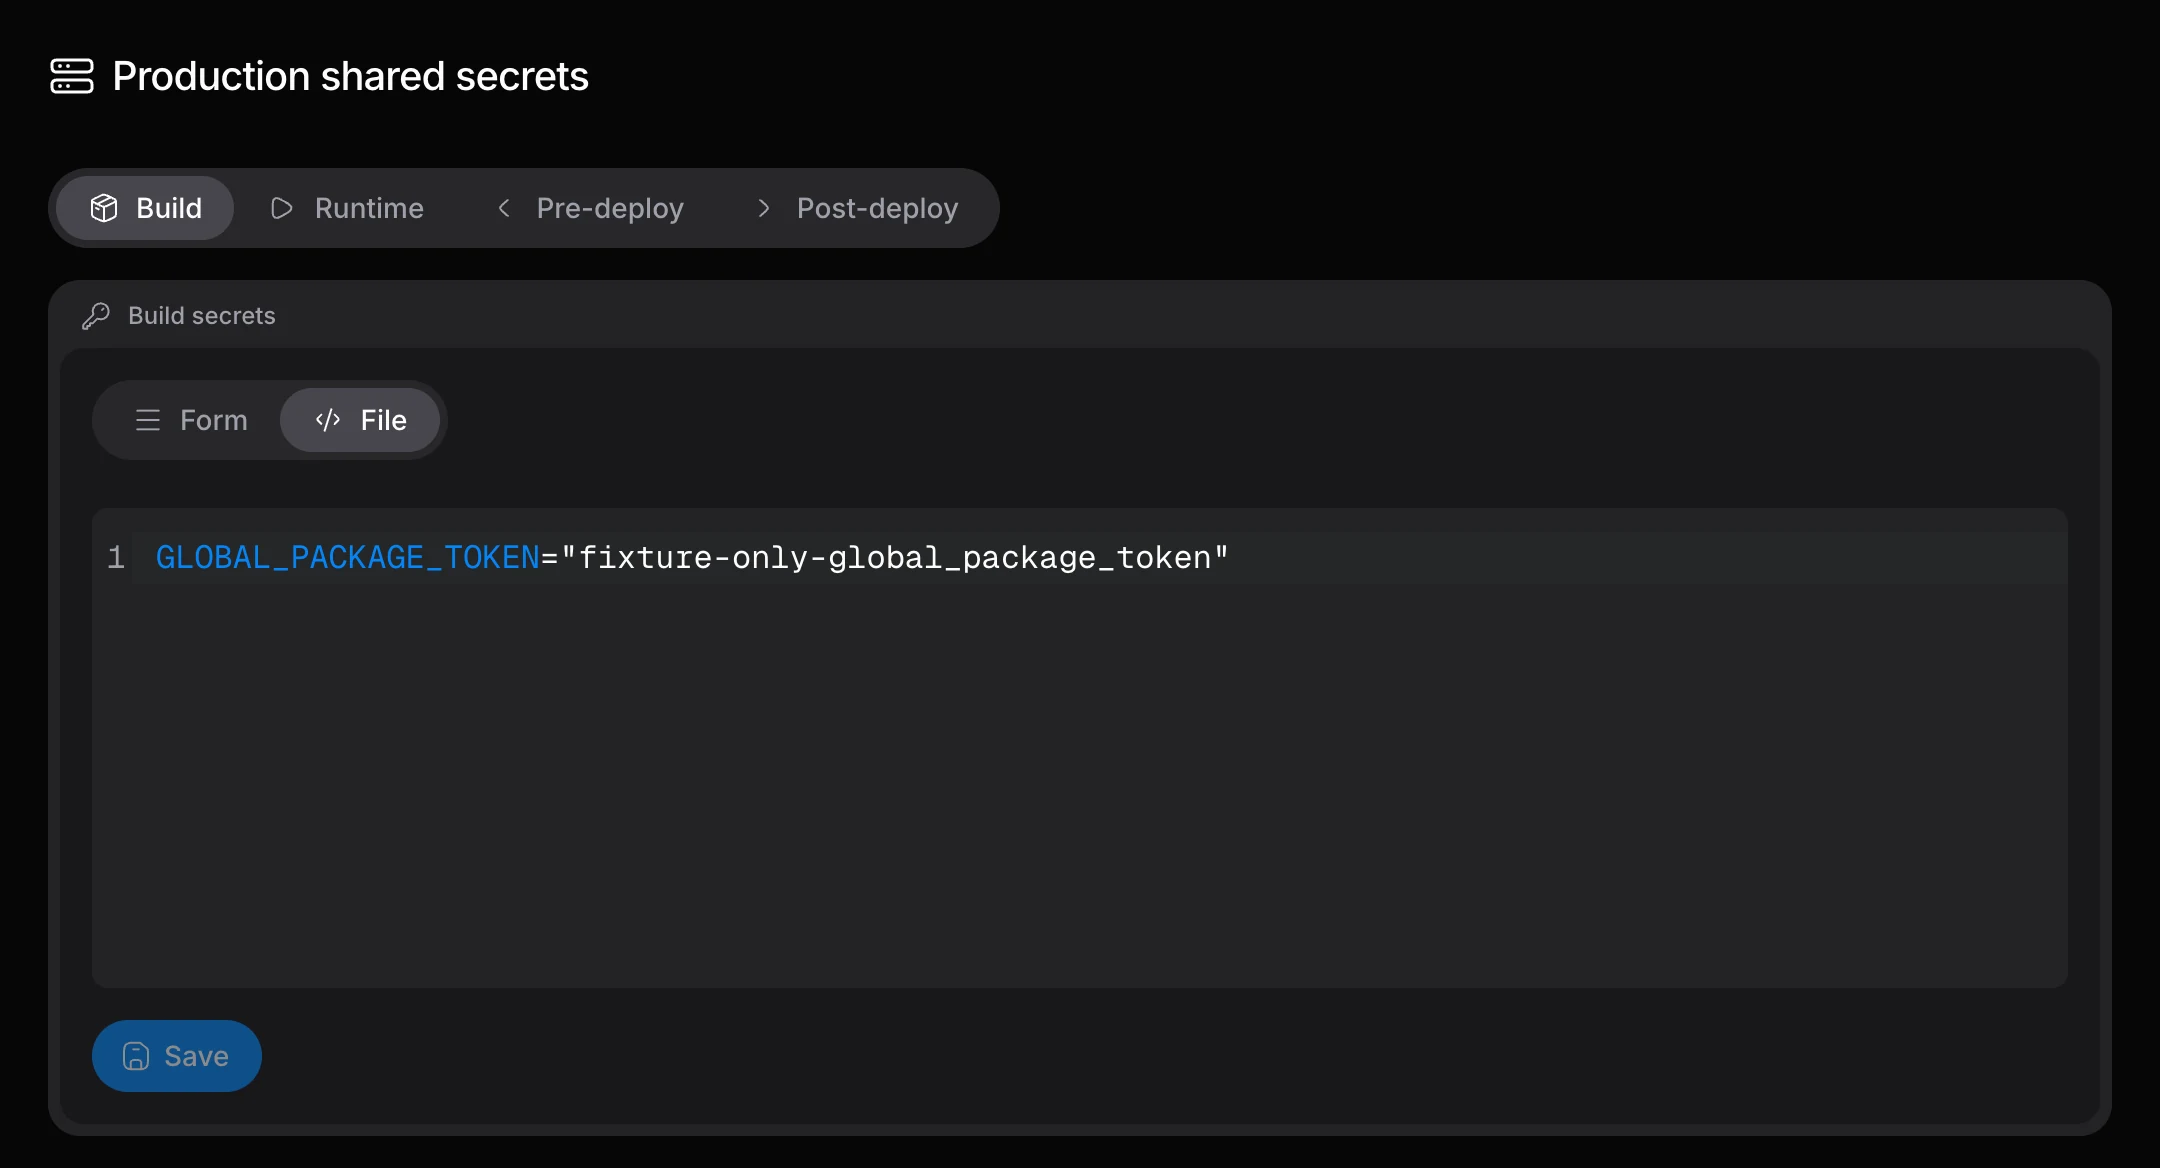
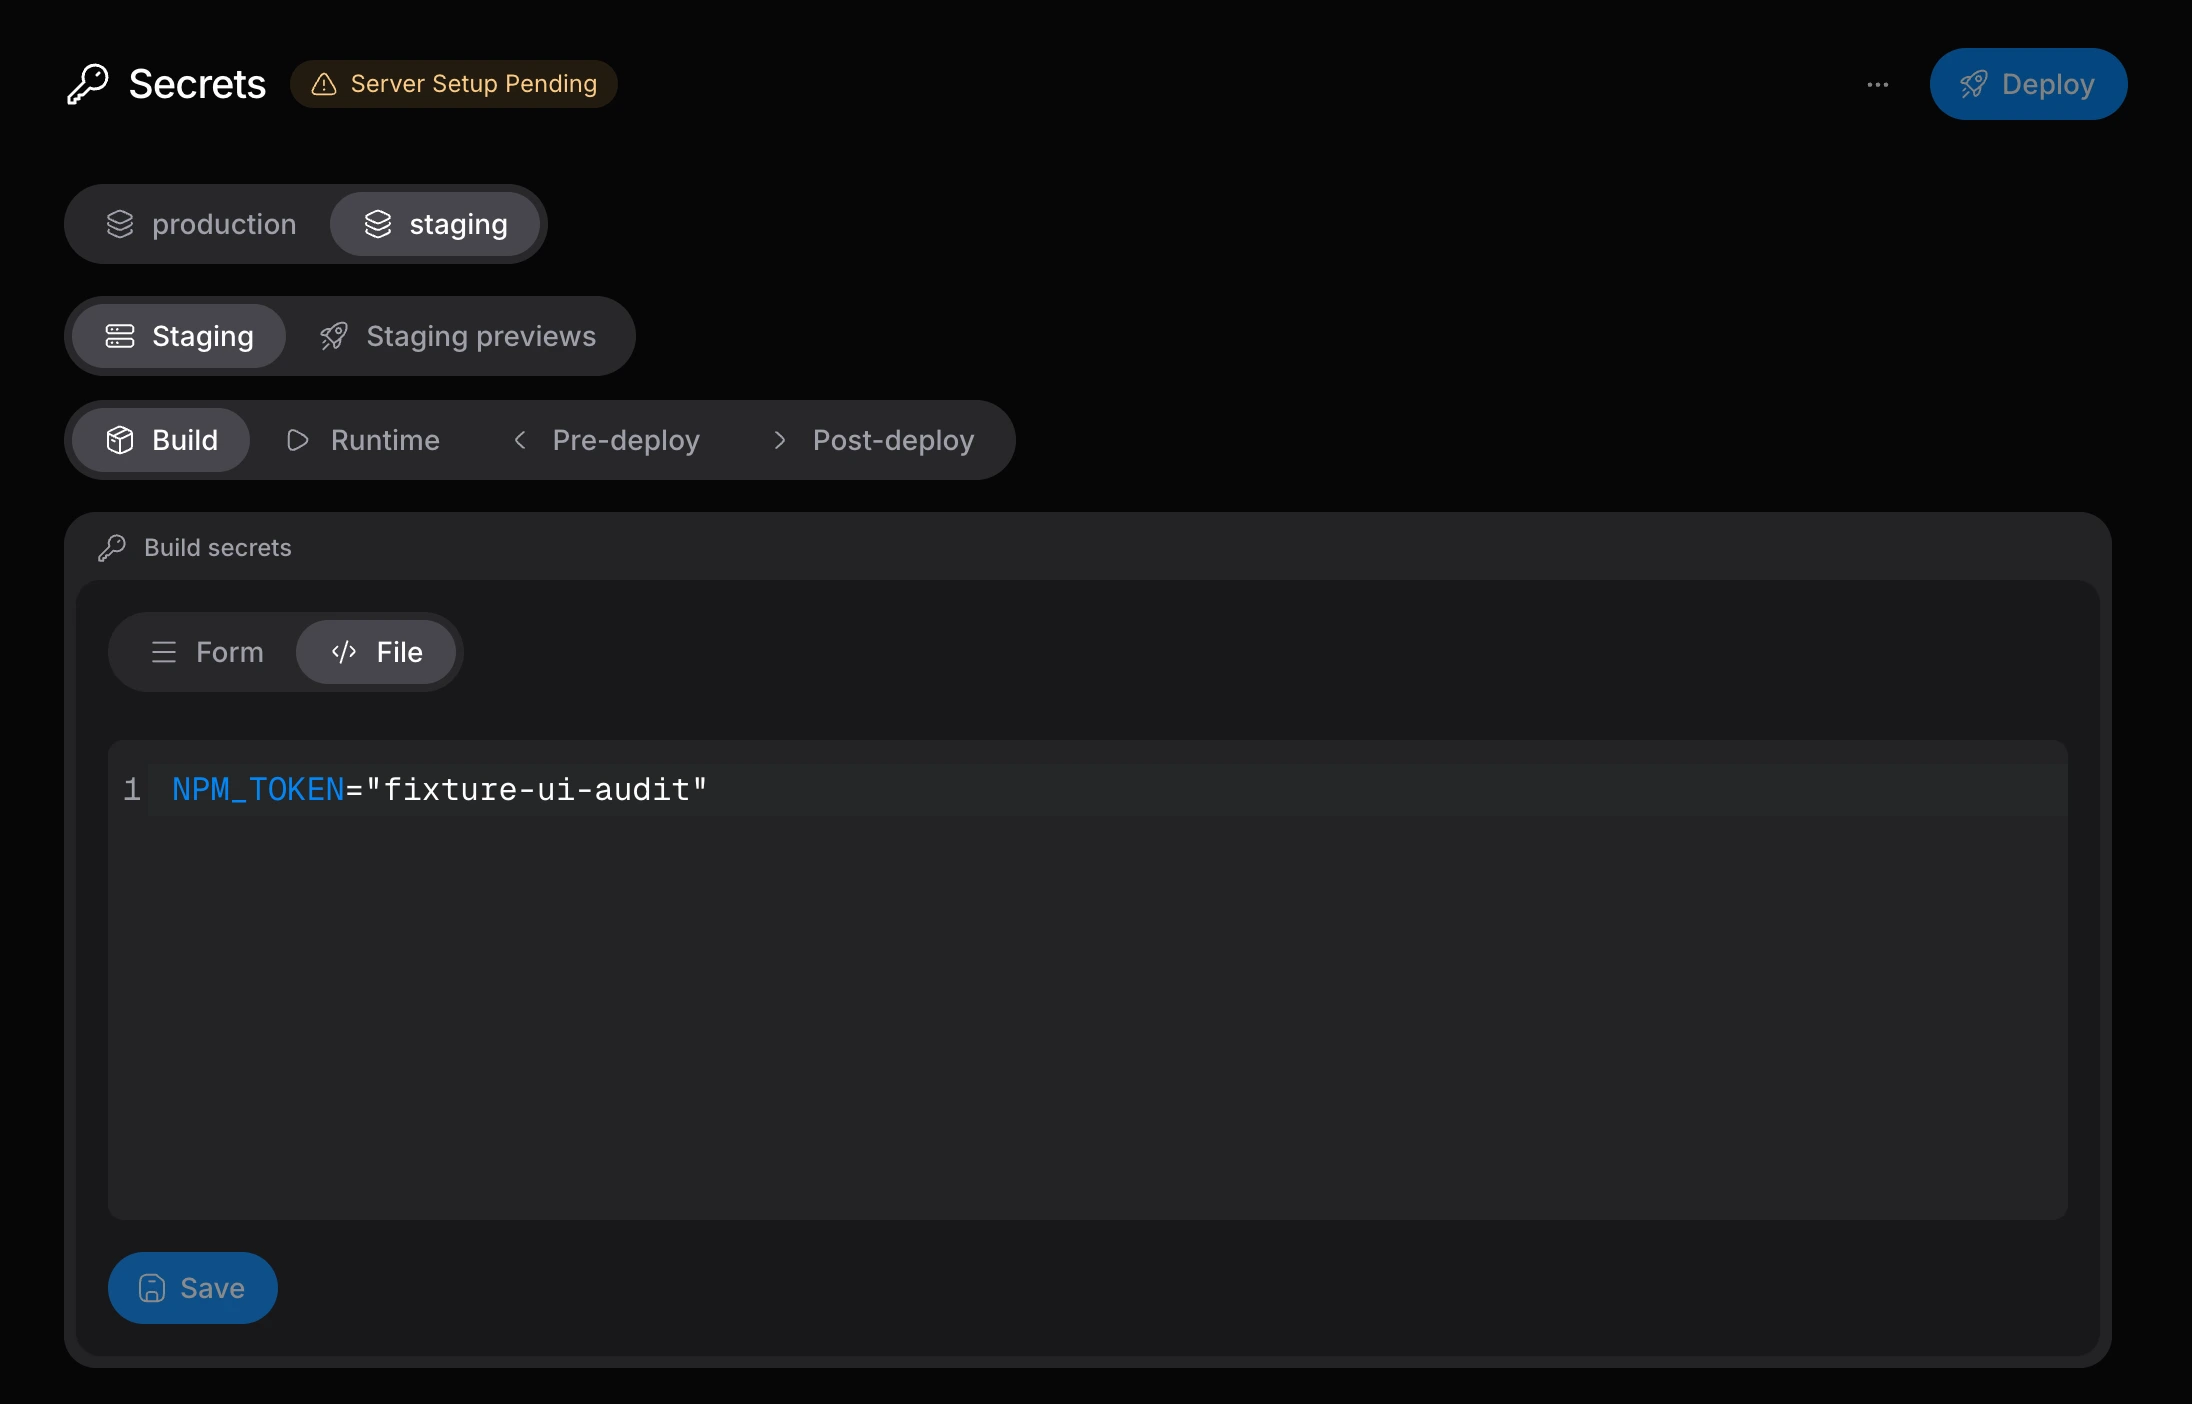
docs: refresh v2 secret screenshots and release fixes

diff --git a/docs/docs/secrets.md b/docs/docs/secrets.md
@@ -54,8 +54,8 @@ AUTH_HEADER="Bearer {{globals.API_TOKEN}}"
 Removing a line deletes that key when saved; `KEY=` saves an empty string. Unchanged values are preserved. Switching modes does not save: use **Save** to apply edits. References remain expressions in the editor and resolve only for execution.
 
 <div className="towbar-doc-screenshot">
-  <div className="towbar-product-light"><img src="/assets/guides/secrets-file-light.webp" alt="The .env File editor using synthetic example secret values." width="2160" height="1168" loading="lazy" /></div>
-  <div className="towbar-product-dark"><img src="/assets/guides/secrets-file-dark.webp" alt="The .env File editor using synthetic example secret values." width="2160" height="1168" loading="lazy" /></div>
+  <div className="towbar-product-light"><img src="/assets/guides/secrets-file-light.webp" alt="The staging Build secrets File editor with a YAML-declared key and a synthetic value." width="2192" height="1404" loading="lazy" /></div>
+  <div className="towbar-product-dark"><img src="/assets/guides/secrets-file-dark.webp" alt="The staging Build secrets File editor with a YAML-declared key and a synthetic value." width="2192" height="1404" loading="lazy" /></div>
 </div>
 
 ## Save and deploy

diff --git a/docs/plans/manifest-v2.md b/docs/plans/manifest-v2.md
@@ -567,3 +567,13 @@ secret rows now stack key/value below the small breakpoint while retaining the
 desktop columns. The rendered value field uses the full mobile card width after
 the fix. Web lint/typecheck and diff whitespace checks pass. This is local
 fixture/browser evidence; no hosted state was changed.
+
+### Final implementation verification checkpoint
+
+`TOWBAR_TEST_DATABASE_URL=... pnpm verify` passed at `81fcbb0`, including all
+229 API tests against PostgreSQL, documentation, formatting, lint, typechecks and
+builds. Opt-in runtime coverage remains the separate evidence recorded above.
+The release notes now include Redis AOF restore recovery, sync retry/enqueue
+races and mobile declared-secret layout. Light/dark File-mode screenshots were
+recaptured from the current staging fixture, with matching intrinsic dimensions
+and horizontal padding. They show a synthetic value, not a real credential.

diff --git a/CHANGELOG.md b/CHANGELOG.md
@@ -47,6 +47,11 @@ All notable changes to Towbar are documented in this file. This project follows
 
 ### Fixed
 
+- Redis restores load RDB snapshots before enabling append-only persistence,
+  preventing an empty database from passing restore health checks.
+- Completed environment syncs remain successful when delayed retries or lost
+  queue responses arrive after the worker has progressed.
+- Declared secret inputs use the full card width on mobile.
 - Deployment and rollback admission reject disconnected, stale, archived, or
   unprepared targets, and retain the selected environment in deployment snapshots.
 - Runtime identities use instance IDs, preventing sibling environments from
